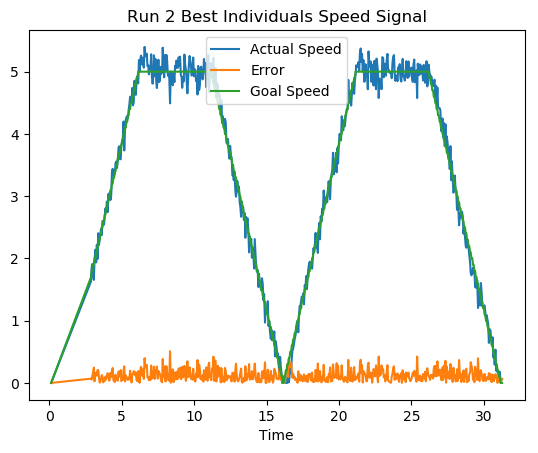
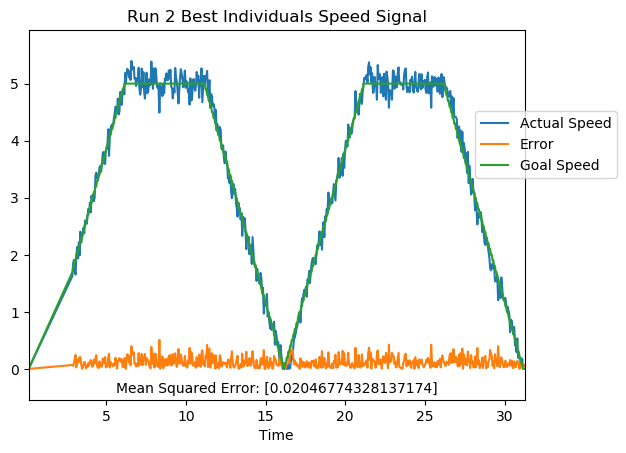
Generated plots for PID tuning runs 0 - 10.

diff --git a/msu_autorally/evo_ros2/src/EAs/test_single_PID.py b/msu_autorally/evo_ros2/src/EAs/test_single_PID.py
@@ -1,0 +1,200 @@
+#
+# GAS 10-15-18
+
+
+# For command line argument parsing
+import argparse
+
+# For communication with evo_ros2
+import zmq
+
+# For data / fitness evaluation
+import pandas as pd
+from sklearn.metrics import mean_squared_error
+
+# For DEAP
+import random
+from deap import creator, base, tools, algorithms
+import numpy as np
+
+# For email notifications
+import smtplib
+from email.mime.text import MIMEText
+
+# For showing DEAP plots
+import matplotlib.pyplot as plt
+import networkx
+
+# For EA running time
+import time
+
+# For creating directories and saving logs
+import os
+from os import listdir
+from os.path import isfile, join
+import json
+import collections
+import datetime
+
+# For saving plots
+import pickle
+
+# For multiple evaluations at once
+import threading
+
+
+class DEAP_EA():
+	def __init__(self, cmd_args):
+		self.debug = cmd_args.debug
+		
+		# EA Params
+		self.experiment_name = "PID-Tuning"
+		self.run_number = 0
+		self.ind = [0.2, 0.0, 0.001, 0.15]
+		
+		
+		# Socket Communication Params      
+		self.ip_addr = '127.0.0.1'
+		#self.ip_addr = '35.9.28.201'
+		self.send_port = 5023
+		self.recv_port = 5033
+
+		# Email Notification Params
+		self.email_receiver_list = ['glen.a.simon@gmail.com']
+		
+		# Multi-threading Params
+		self.lock = threading.Lock()
+		
+		
+		try:
+			 # Set up 
+			self.detailed_log = dict()
+			self.set_up_sockets()
+			self.set_up_dirs()
+			
+			raw_input("Press enter to run")
+		
+			# Run
+			self.run()
+		finally:
+			self.socket.close()
+			self.receiver.close()
+			self.context.destroy()
+		
+	
+	
+	### Run the EA ###
+	def run(self):
+		
+		self.socket.send_json(self.ind)
+		
+		print('Waiting Result')
+
+		return_data = dict(self.receiver.recv_json())
+		ind = list(return_data['Genome'])
+		result = dict(return_data['Result'])
+		fitness = self.evaluate_result(ind, result)
+		
+		# Final logging and notifications
+		self.create_run_log()
+		print('Run log created.')
+		self.write_run_log()
+		print('Log saved!')
+		self.create_run_plots()
+		print('Plots saved!')
+		print('Email notification sent!')
+	
+	
+
+
+	
+	def evaluate_result(self, ind, result):
+		print('Recv\'d Result')
+		self.df = pd.DataFrame.from_dict(dict(result))
+		self.df['Error'] = abs(self.df['Actual Speed'] - self.df['Goal Speed'])
+		#df.plot(x='Time')
+		self.fitness = mean_squared_error(self.df['Actual Speed'],  self.df['Goal Speed'])
+		
+		return (self.fitness, )
+			
+		
+
+	### Set up communication sockets ###
+	def set_up_sockets(self):
+		#Initialize the socket for data
+		
+		# Setup the socket to send data out on.
+		self.context = zmq.Context()
+		self.socket = self.context.socket(zmq.PUSH)
+		#socket.setsockopt(zmq.LINGER, 0)    # discard unsent messages on close
+		self.socket.bind('tcp://{}:{}'.format(self.ip_addr, self.send_port))
+
+		# Setup the socket to read the responses on.
+		self.receiver = self.context.socket(zmq.PULL)
+		self.receiver.bind('tcp://{}:{}'.format(self.ip_addr, self.recv_port))
+		
+		print('Sending Connection: {}'.format('tcp://{}:{}'.format(self.ip_addr, self.send_port)))
+		print('Result Connection: {}'.format('tcp://{}:{}'.format(self.ip_addr, self.recv_port)))
+
+	   
+	
+	### Create Experiment and Run directories if not already made ###
+	def set_up_dirs(self):
+		
+		# Make sure that a directory for this experiment has been made
+		self.experiment_directory = 'logs/' + self.experiment_name
+		if not os.path.isdir(self.experiment_directory):
+			print('No directory for experiment...Creating now.')
+			os.makedirs(self.experiment_directory)
+			
+		# Make sure that a directory for this run has been made
+		self.run_directory = self.experiment_directory + '/run' + str(self.run_number)
+		if not os.path.isdir(self.run_directory):
+			print('No directory for run...Creating now.')
+			os.makedirs(self.run_directory)
+			
+	### Create the run log ###
+	def create_run_log(self):
+		self.run_log = collections.OrderedDict()
+		
+		self.run_log['experiment_name'] = self.experiment_name
+		self.run_log['run_number'] = self.run_number
+		self.run_log['run_date'] = str(datetime.datetime.now())
+		self.run_log['best_ind'] = self.ind
+		self.run_log['best_ind_fitness'] = self.fitness
+		self.run_log['detailed_log'] = self.df.to_json()
+		
+		
+	### Write the run log to disk ###
+	def write_run_log(self):
+		with open(self.run_directory + '/log' + '.json', 'w+') as outfile:
+			json.dump(self.run_log, outfile, indent=2)
+		
+		
+	### Create run plots ###
+	def create_run_plots(self):
+		
+		
+		# Speed Signal of Best Ind
+		print('Preparing plot 2...')
+		details_of_best_ind = self.df
+		self.df = self.df.sort_index()
+		ax2 = self.df.plot(x='Time')
+		ax2.legend(['Actual Speed', 'Goal Speed', 'Error'], bbox_to_anchor=(1.2, 0.8))
+		ax2.set_title('Run {} Best Individuals Speed Signal'.format(self.run_number))
+		plt.text(0.5, 0.03, 'Mean Squared Error: {}'.format(self.fitness), horizontalalignment='center', verticalalignment='center', transform=ax2.transAxes)
+		fig2 = ax2.get_figure()
+		plt.margins(x = 0.0, y = 0.1)
+		print('Saving plot 2')
+		fig2.savefig('{}/best_ind_speed_plot.png'.format(self.run_directory), bbox_inches='tight')
+		
+	
+	
+
+if __name__ == '__main__':
+	# Parse arguments
+	parser = argparse.ArgumentParser(description='Front end DEAP EA for PID Study')
+	parser.add_argument('-d', '--debug', action='store_true', help='Print extra output to terminal.')
+	args, unknown = parser.parse_known_args() # Only parse arguments defined above
+
+	node = DEAP_EA(cmd_args = args)

diff --git a/msu_autorally/evo_ros2/src/EAs/DEAP_EA_Speed_PID_Tuning.py b/msu_autorally/evo_ros2/src/EAs/DEAP_EA_Speed_PID_Tuning.py
@@ -49,16 +49,16 @@ class DEAP_EA():
 		
 		# EA Params
 		self.experiment_name = "PID-Tuning"
-		self.run_number = 10
+		self.run_number = 100
 		self.genome_size = 4
 		self.tourn_size = 2
 		self.pop_size = 25
-		self.number_generations = 25
+		self.number_generations = 100
 		
 		
 		# Socket Communication Params      
-		#self.ip_addr = '127.0.0.1'
-		self.ip_addr = '35.9.28.201'
+		self.ip_addr = '127.0.0.1'
+		#self.ip_addr = '35.9.28.201'
 		self.send_port = 5023
 		self.recv_port = 5033
 

diff --git a/msu_autorally/evo_ros2/src/EAs/logs/PID-Tuning/generate_plots.py b/msu_autorally/evo_ros2/src/EAs/logs/PID-Tuning/generate_plots.py
@@ -35,7 +35,7 @@ class plot_generator():
 		
 		
 		run_multiple = True
-		self.number_runs = 2
+		self.number_runs = 10
 		
 		
 		if run_multiple:
